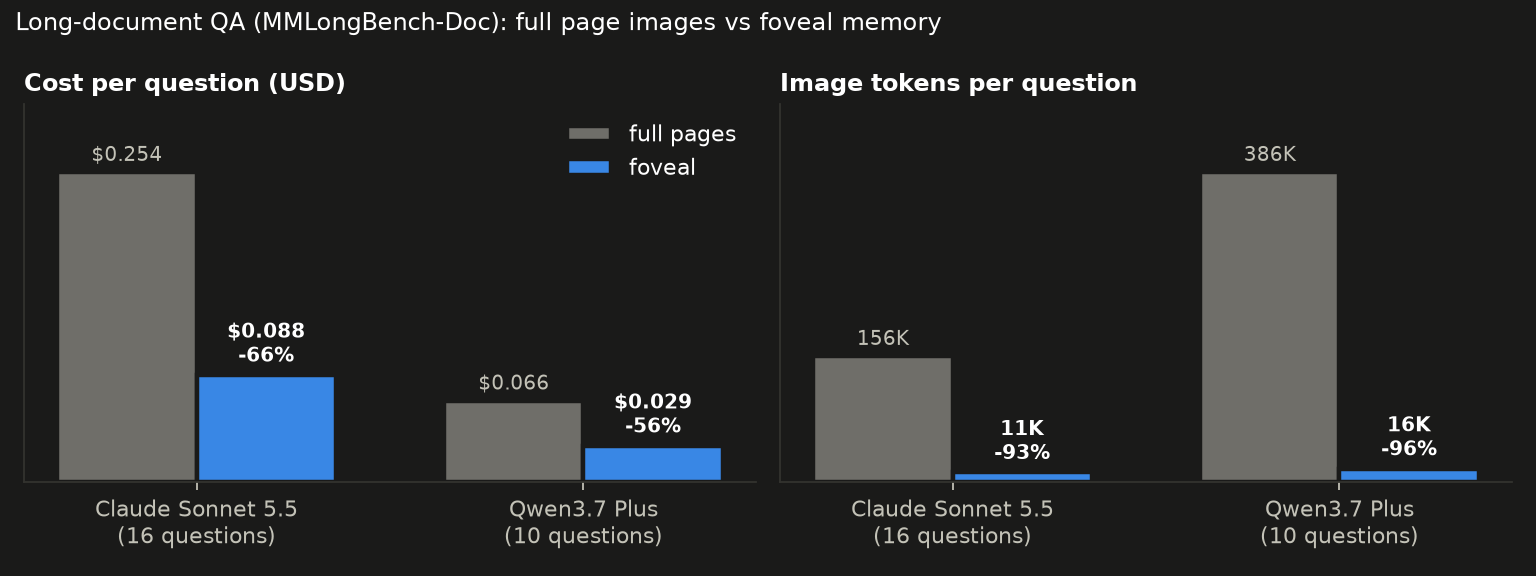
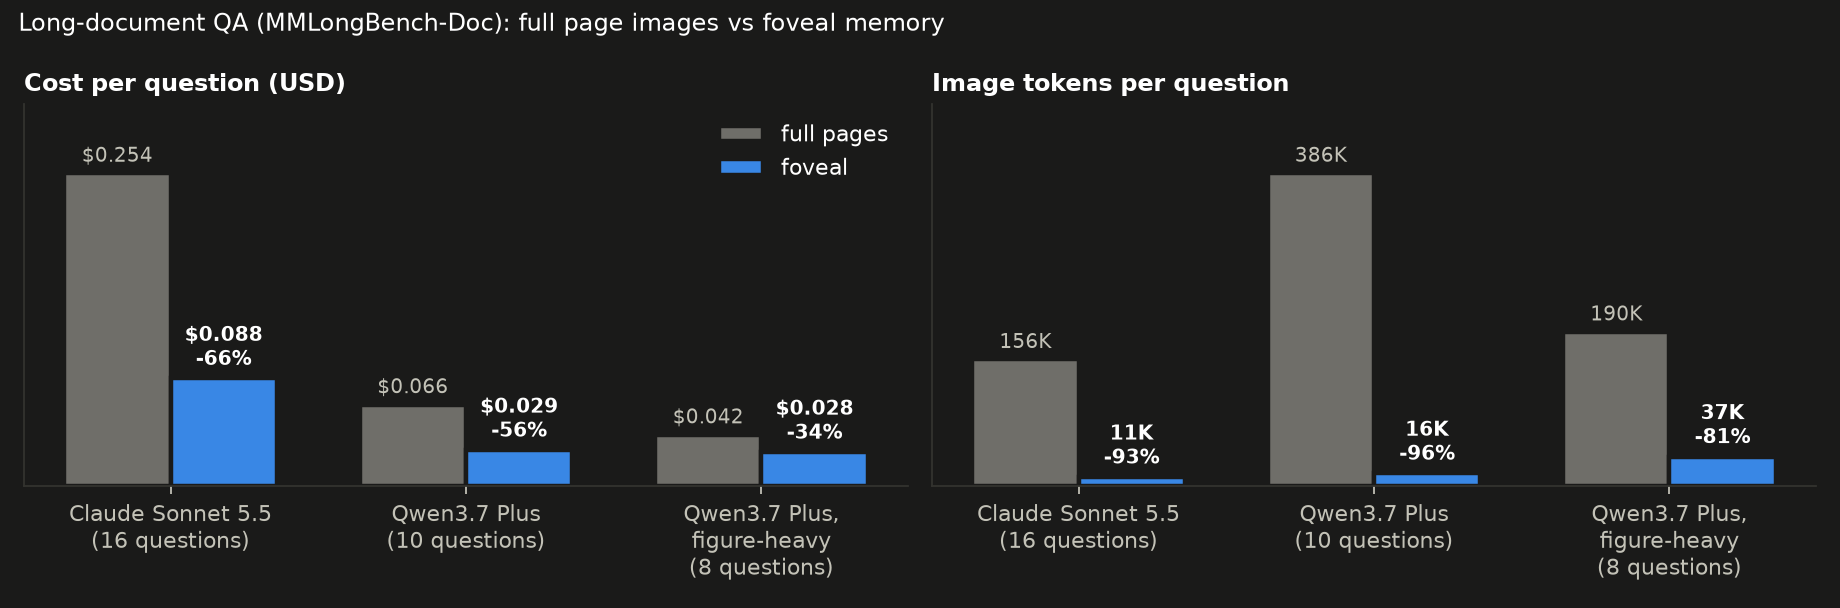
Qwen figure-heavy and shared-notes results
- figure/table/chart questions (8 new docs): foveal 7/8 = full pages 7/8, -81% image
  tokens, -34% cost
- shared notes: 8/13 vs 9/13, +17% cost - notes rarely matched later questions on this
  workload; reported as a negative result
- README chart now includes the figure-heavy set; results files added

diff --git a/bench/figures.py b/bench/figures.py
@@ -48,14 +48,10 @@ THEMES = {
     },
 }
 
-DOCQA = [  # (model label, baseline log, foveal log, optional foveal+facts log)
-    ("Claude Sonnet 5.5", "runs/phase0-sonnet55.jsonl", "runs/phase1-memory-v2.jsonl", None),
-    (
-        "Qwen3.7 Plus",
-        "runs/qwen-16-images.jsonl",
-        "runs/qwen-16-memory.jsonl",
-        "runs/qwen-16-facts.jsonl",
-    ),
+DOCQA = [  # (label, full-page log, foveal log)
+    ("Claude Sonnet 5.5", "runs/phase0-sonnet55.jsonl", "runs/phase1-memory-v2.jsonl"),
+    ("Qwen3.7 Plus", "runs/qwen-16-images.jsonl", "runs/qwen-16-memory.jsonl"),
+    ("Qwen3.7 Plus,\nfigure-heavy", "runs/qwen-p1s-images.jsonl", "runs/qwen-p1s-memory.jsonl"),
 ]
 OUT = Path("docs/figures")
 
@@ -139,12 +135,12 @@ def success(path: str, ids: set[str], scorer: Any) -> float:
 
 def docqa_rows(scorer: Any) -> list[dict]:
     rows = []
-    for model, base, fov, facts in DOCQA:
+    for model, base, fov in DOCQA:
         if not (Path(base).exists() and Path(fov).exists()):
             continue
-        logs = [base, fov] + ([facts] if facts and Path(facts).exists() else [])
+        logs = [base, fov]
         ids = set.intersection(*(set(_tasks(read_jsonl(p))) for p in logs))
-        for label, p in zip(["full pages", "foveal", "foveal + notes"], logs, strict=False):
+        for label, p in zip(["full pages", "foveal"], logs, strict=True):
             rows.append(
                 {
                     "model": model,
@@ -164,7 +160,7 @@ def chart_docqa(rows: list[dict], t: dict, path: Path) -> None:
     models = list(dict.fromkeys(r["model"] for r in rows))
     modes = ["full pages", "foveal"]
     colors = {"full pages": t["base"], "foveal": t["foveal"]}
-    fig, axes = plt.subplots(1, 2, figsize=(9.6, 3.6))
+    fig, axes = plt.subplots(1, 2, figsize=(11.5, 3.8))
     for ax, key, title, fmt in (
         (axes[0], "cost", "Cost per question (USD)", lambda v: f"${v:.3f}"),
         (axes[1], "image_tokens", "Image tokens per question", lambda v: f"{v / 1000:.0f}K"),

diff --git a/README.md b/README.md
@@ -22,6 +22,8 @@ model answers the same questions in both modes, and one judge scores every answe
 | | **foveal memory** | **10/16** | **11K (-93%)** | **$0.088 (-66%)** |
 | Qwen3.7 Plus via OpenRouter (10 questions) | full page images | 10/10 | 386K | $0.066 |
 | | **foveal memory** | **8/10** | **16K (-96%)** | **$0.029 (-56%)** |
+| Qwen3.7 Plus, figure/table/chart questions (8 new) | full page images | 7/8 | 190K | $0.042 |
+| | **foveal memory** | **7/8** | **37K (-81%)** | **$0.028 (-34%)** |
 
 <picture>
   <source media="(prefers-color-scheme: dark)" srcset="docs/figures/docqa-dark.png">
@@ -54,8 +56,16 @@ targeted (579 of 579). On compressed video, at most 0.27% of pixels were off.
 - **Perceive once, pay a fraction.** Captions and text layers answer many questions, and
   `look()` fetches pixels when they're needed. Image tokens fell 93–96% on both models.
 - **The accuracy cost depends on the model.** Claude Sonnet 5.5 kept full accuracy. Qwen3.7
-  Plus lost 2 of 10. On a URL count and a figure question it trusted the text instead of
-  calling `look()`, so weaker tool users may need foveal to promote images more readily.
+  Plus lost 2 of 10 on the first set. On a URL count and a figure question it trusted the
+  text instead of calling `look()`, so weaker tool users may need foveal to promote images
+  more readily. On fresh figure-heavy questions Qwen matched full pages (7/8 each), and the
+  saving was smaller (-34% cost) because it rightly looked at more pixels.
+- **Shared notes didn't pay off on this workload.** Agents wrote 60 notes, but later
+  questions on the same document asked about different things, so the notes rarely
+  answered them. Writing and reading notes added calls: memory + notes cost 17% more and
+  scored 8/13 against 9/13. Reuse across questions does happen at the page level, where
+  each document's captions and text are stored once. Facts need workloads where agents
+  share what they need, such as screens or parallel readers.
 - **Keeping only the last N screenshots defeats prompt caching.** The sliding window changes
   the prompt prefix every step, so on web tasks it costs *more* than sending everything.
   foveal's append-only diffs keep all the information for about half the cost of keep-last-3.
@@ -187,10 +197,10 @@ refuses to start runs whose caps add up to more than `--budget`.
 - The screen results come from offline replay. A live web-agent accuracy run (Mind2Web
   next-action prediction under each history policy) is built but not yet run.
 - Next:
-  - Run foveal memory on the 8-question figure/table/chart set (its full-page baseline is
-    done).
-  - Run the shared-notes mode across questions.
   - Auto-promote images for models that under-use `look()`.
+  - Test shared facts on a workload where agents need the same facts (parallel readers,
+    screens).
+  - Run the live Mind2Web check.
 
 The development history is in [docs/development_log.md](docs/development_log.md).
 

diff --git a/docs/technical_report.md b/docs/technical_report.md
@@ -99,6 +99,23 @@ spending cap after 10):
 
 ![Cost and image tokens per question, both models](figures/docqa-light.png)
 
+**Qwen3.7 Plus, 8 fresh figure/table/chart questions** (documents not used above):
+
+| Configuration | Correct | Image tokens | Cost incl. captions |
+| --- | --- | --- | --- |
+| Full page images (baseline) | 7/8 | 1.52M | $0.33 |
+| foveal memory | 7/8 | 293K | **$0.22** |
+
+On figure-heavy questions the agents call `look()` more, so foveal saves less (-81% image
+tokens, -34% cost), but accuracy held.
+
+**Shared notes (Qwen3.7 Plus, the 13 questions both runs answered).** Memory alone scored
+9/13 for $0.42. Memory with notes scored 8/13 for $0.49 (+17%), with 58% more image tokens.
+Agents wrote 60 notes, but questions about the same document asked about different
+things, so earlier notes rarely answered later questions. Note-writing and longer prompts
+added cost. Cross-question reuse on this benchmark already happens at the page level
+(captions and text perceived once per document); facts need overlapping information needs.
+
 **Qwen's two misses** were a URL count (29 against a gold of 30) and a question about a
 figure that the document can't answer, where it said "0" instead of "Not answerable". In
 both, it reasoned from captions and the text layer instead of calling `look()`, so foveal
@@ -144,9 +161,6 @@ input for context management, not an afterthought.
 
 | Run | Purpose |
 | --- | --- |
-| Figure/table/chart slice, foveal memory | The full-page baseline on 8 fresh figure-heavy questions is done (Qwen); the memory side is not |
-| Shared notes across questions | Same questions with `--facts`, to test reuse of earlier answers |
 | Mind2Web next-action accuracy | Full history vs keep-last-3 vs foveal diffs, live |
-
-Each can be run with `bench.mmlongbench.run` / `bench.replay.agent_eval` under a
-`--max-cost-usd` cap.
+| Shared facts on overlapping needs | Parallel readers on one question, or a screen workload |
+| Image auto-promotion | Does promoting relevant pages recover Qwen's misses? |

diff --git a/docs/results/docqa_qwen37plus_notes.md b/docs/results/docqa_qwen37plus_notes.md
@@ -1,0 +1,30 @@
+# Doc QA: Qwen3.7 Plus, foveal memory (baseline) vs foveal memory + shared notes
+
+**Gate:** FAIL: success 8/13 vs baseline 9/13 (needs >= 95% of baseline)
+
+| Metric | Baseline | foveal | Change |
+| --- | --- | --- | --- |
+| Success | 9/13 | 8/13 | -1 |
+| Image tokens (tasks + ingest) | 233,774 | 369,383 | +58% |
+| Ingest image tokens | 47,412 | 60,034 | |
+| Re-perception rate | 74.1% | 79.1% | |
+| Cost incl. ingest | $0.42 | $0.49 | +17% |
+| Model calls | 232 | 254 | |
+| Same score as baseline | | 12/13 | |
+| No worse than baseline | | 12/13 | |
+
+| Task | Base score | foveal score | Base img tokens | foveal img tokens |
+| --- | --- | --- | --- | --- |
+| Campaign_038_Introducing_AC_Whitepaper_v#q0 | 0 | 0 | 0 | 6,720 |
+| Campaign_038_Introducing_AC_Whitepaper_v#q1 | 1 | 1 | 22,400 | 31,229 |
+| Campaign_038_Introducing_AC_Whitepaper_v#q2 | 1 | 0 | 22,400 | 2,734 |
+| Campaign_038_Introducing_AC_Whitepaper_v#q3 | 0 | 0 | 22,400 | 22,400 |
+| reportq32015-151009093138-lva1-app6891_9#q0 | 1 | 1 | 6,820 | 27,280 |
+| reportq32015-151009093138-lva1-app6891_9#q1 | 1 | 1 | 27,280 | 44,330 |
+| reportq32015-151009093138-lva1-app6891_9#q2 | 1 | 1 | 3,410 | 0 |
+| reportq32015-151009093138-lva1-app6891_9#q3 | 1 | 1 | 8,525 | 8,525 |
+| formwork-150318073913-conversion-gate01_#q0 | 1 | 1 | 8,525 | 1,705 |
+| formwork-150318073913-conversion-gate01_#q1 | 1 | 1 | 6,820 | 35,805 |
+| formwork-150318073913-conversion-gate01_#q2 | 1 | 1 | 6,820 | 20,460 |
+| formwork-150318073913-conversion-gate01_#q3 | 0 | 0 | 46,035 | 103,233 |
+| 11-21-16-Updated-Post-Election-Release#q0 | 0 | 0 | 4,928 | 4,928 |

diff --git a/docs/results/docqa_qwen37plus_figures.md b/docs/results/docqa_qwen37plus_figures.md
@@ -1,0 +1,25 @@
+# Doc QA, figure/table/chart questions: Qwen3.7 Plus, full page images vs foveal memory
+
+**Gate:** PASS: success 7/8 vs baseline 7/8 (needs >= 95% of baseline)
+
+| Metric | Baseline | foveal | Change |
+| --- | --- | --- | --- |
+| Success | 7/8 | 7/8 | +0 |
+| Image tokens (tasks + ingest) | 1,522,416 | 293,166 | -81% |
+| Ingest image tokens | 0 | 38,148 | |
+| Re-perception rate | 79.1% | 60.3% | |
+| Cost incl. ingest | $0.33 | $0.22 | -34% |
+| Model calls | 71 | 85 | |
+| Same score as baseline | | 6/8 | |
+| No worse than baseline | | 7/8 | |
+
+| Task | Base score | foveal score | Base img tokens | foveal img tokens |
+| --- | --- | --- | --- | --- |
+| guojixueshengshenghuozhinanyingwen9.1#q0 | 1 | 0 | 675,024 | 78,679 |
+| guojixueshengshenghuozhinanyingwen9.1#q1 | 1 | 1 | 108,192 | 57,535 |
+| 2312.10997v5#q0 | 1 | 1 | 285,824 | 9,520 |
+| 2312.10997v5#q1 | 1 | 1 | 9,856 | 2,464 |
+| Independents-Report#q0 | 1 | 1 | 251,328 | 4,928 |
+| Independents-Report#q1 | 0 | 1 | 172,480 | 82,180 |
+| 8dfc21ec151fb9d3578fc32d5c4e5df9#q0 | 1 | 1 | 4,928 | 4,928 |
+| 8dfc21ec151fb9d3578fc32d5c4e5df9#q1 | 1 | 1 | 14,784 | 14,784 |
